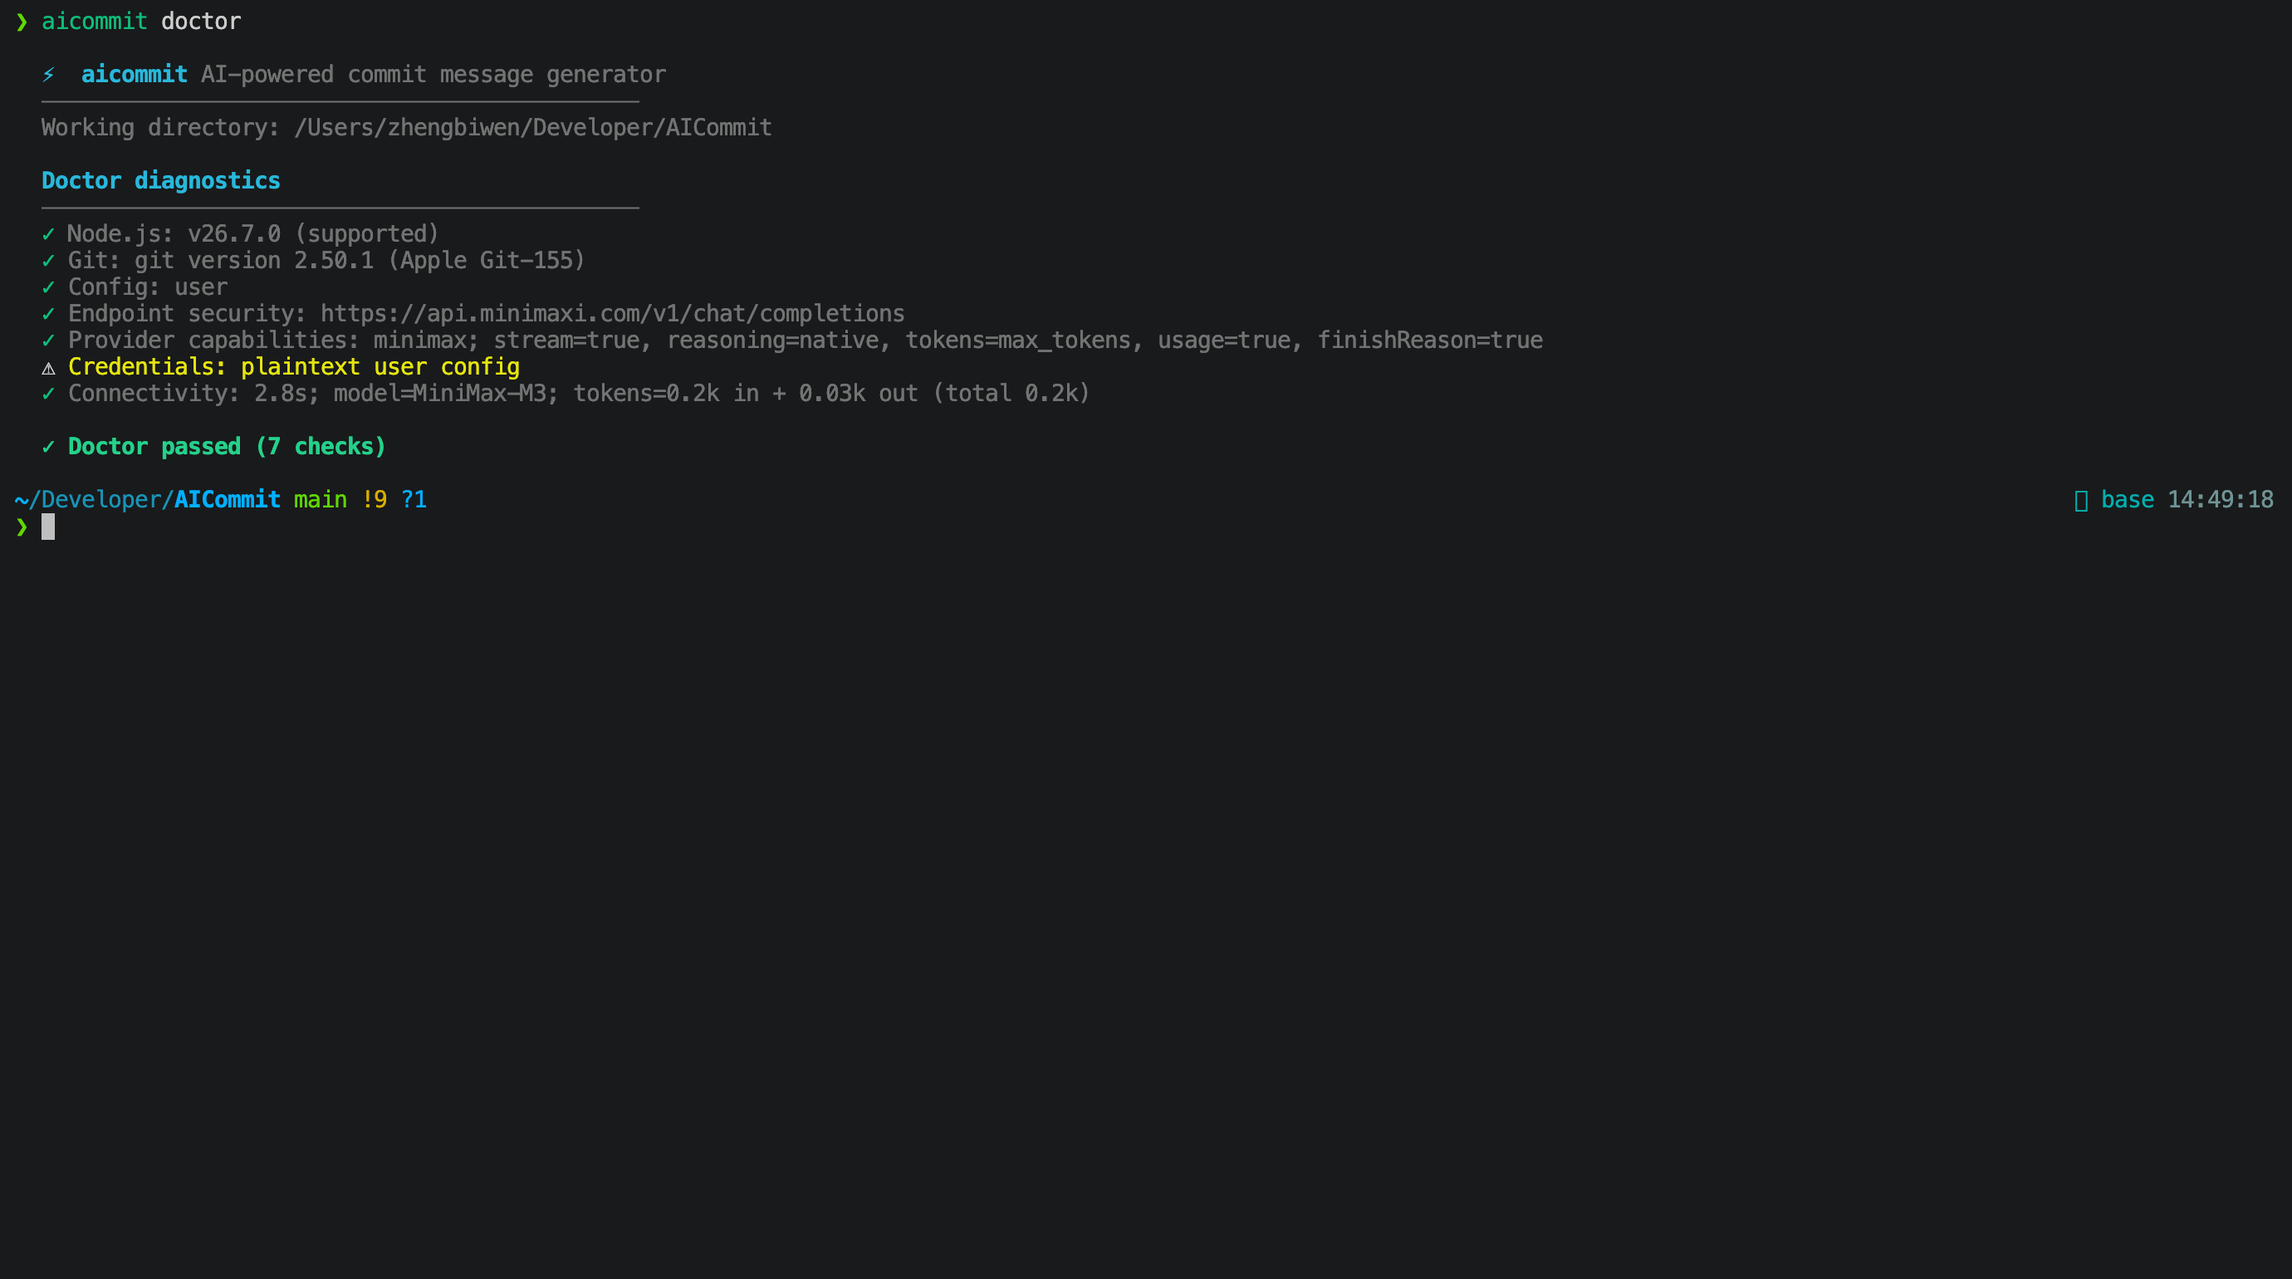
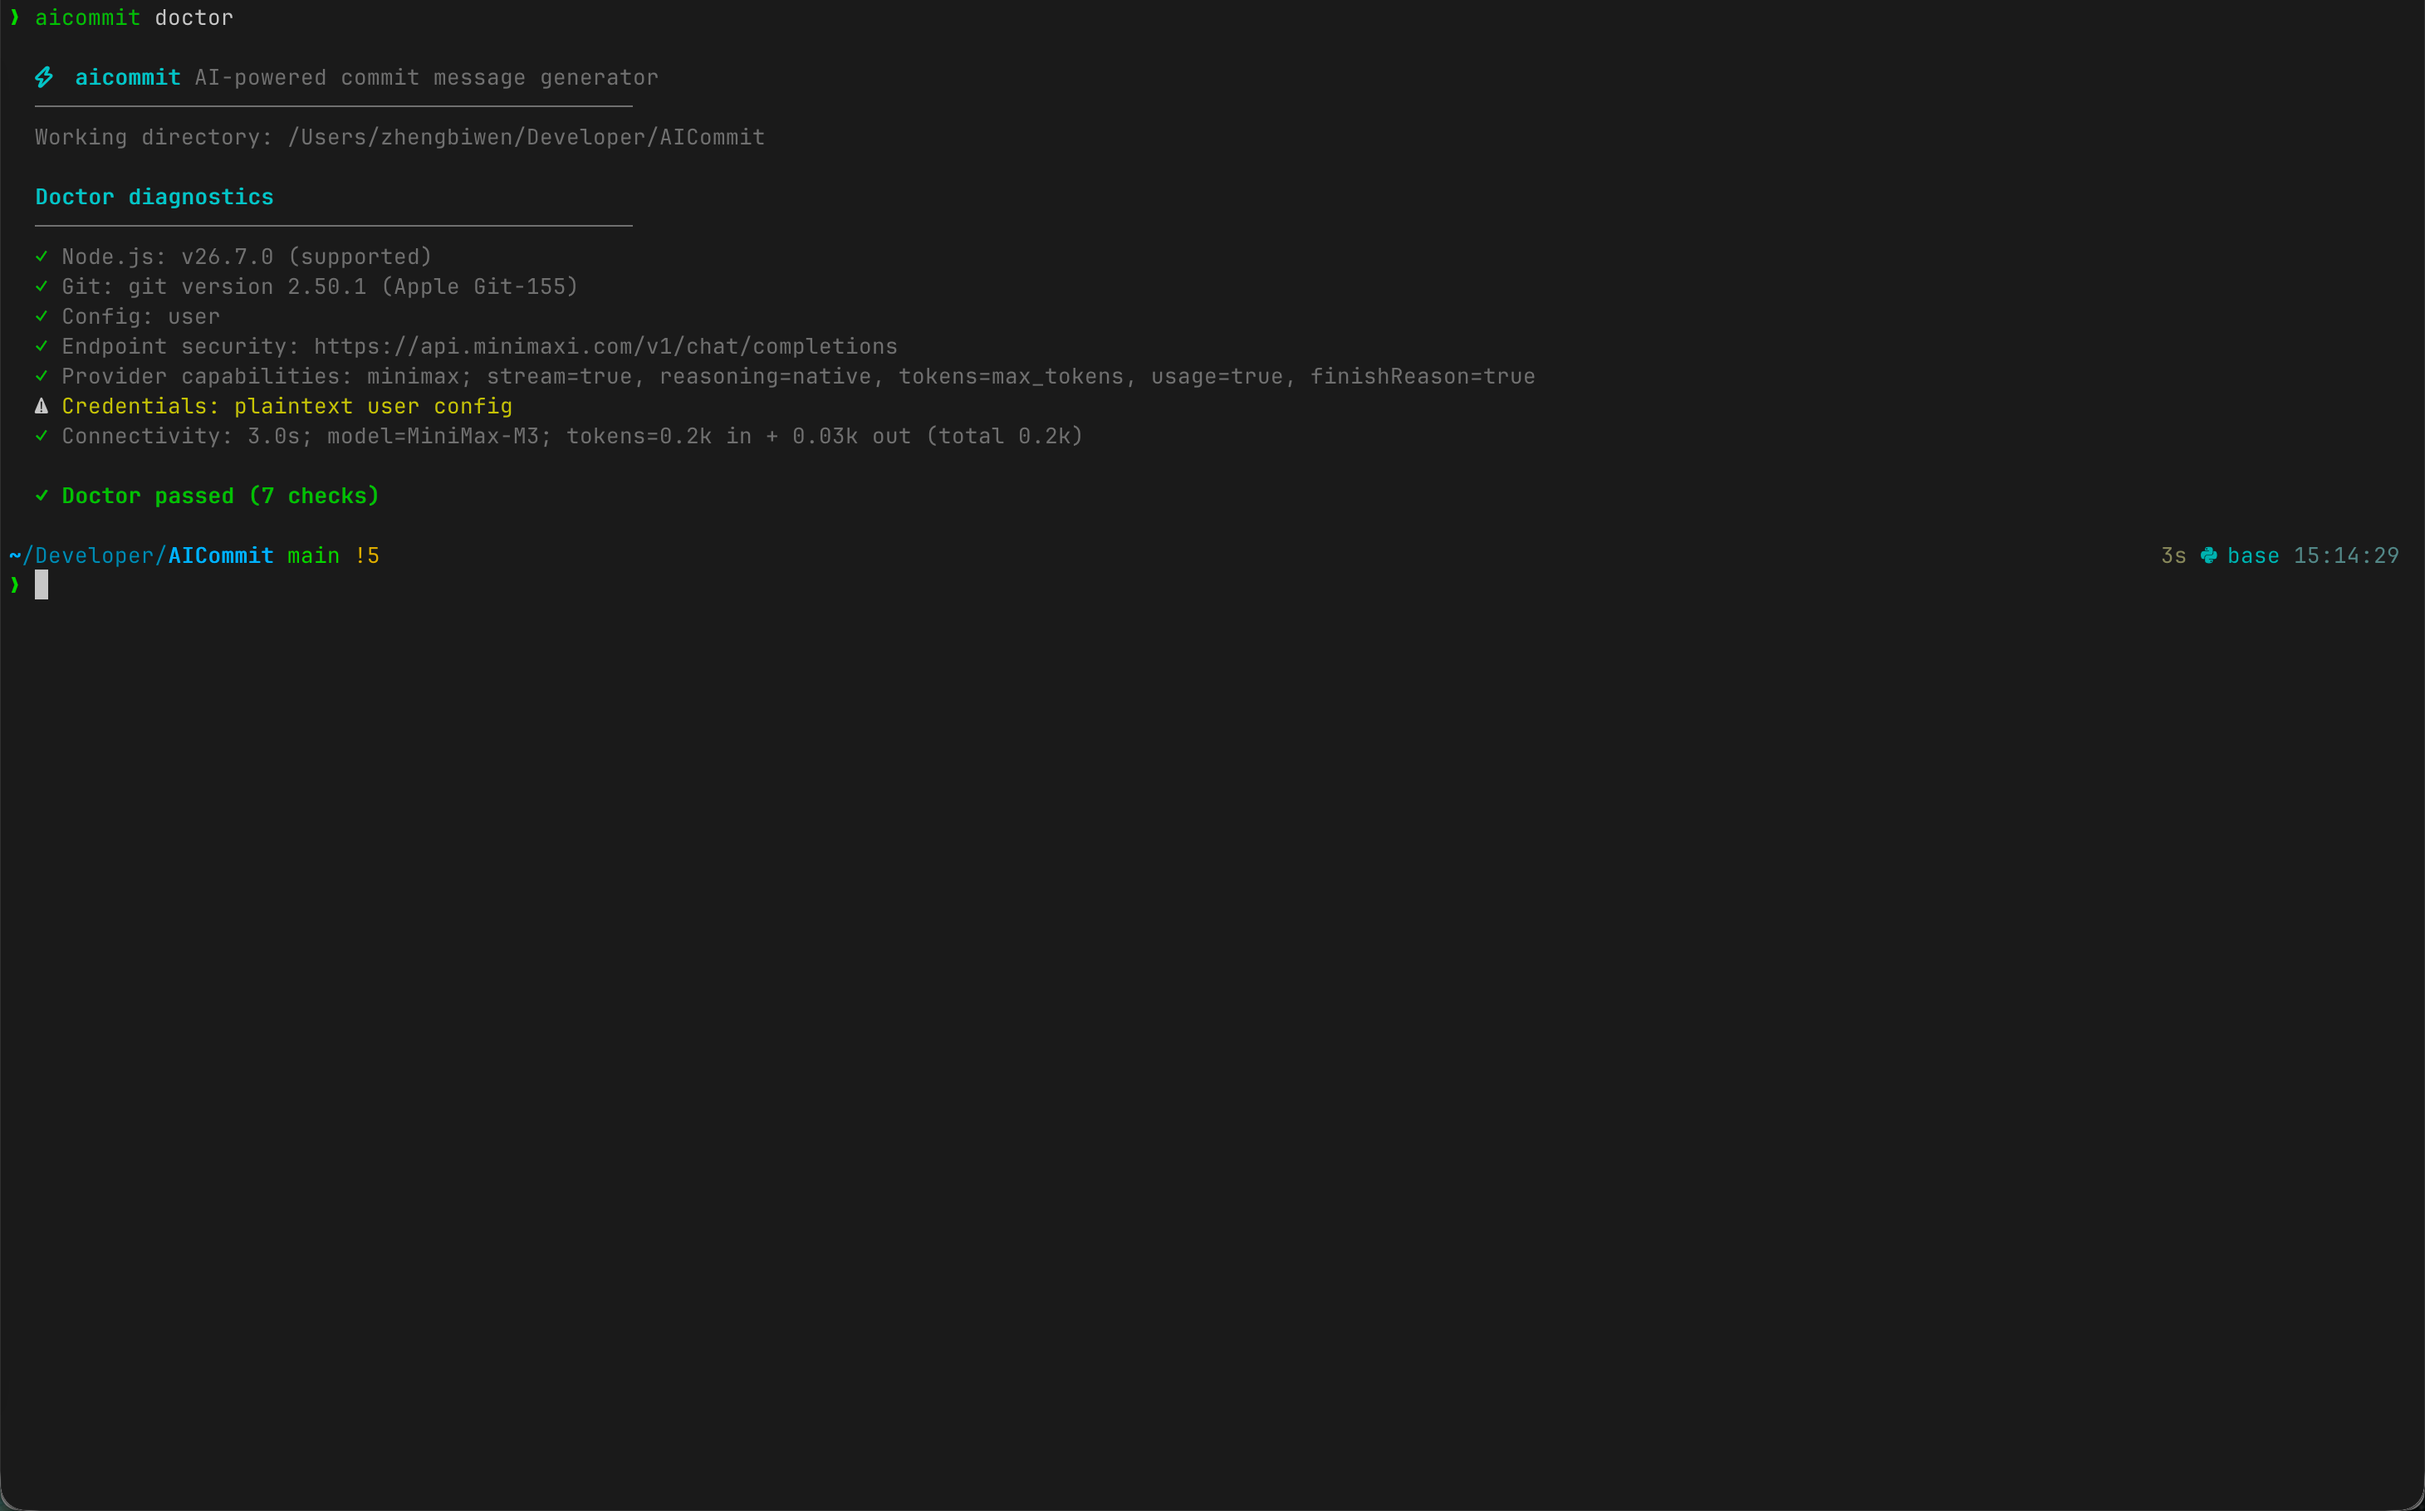
docs: 更新 README 截图与文案以反映实际 CLI 流程
- 将「交互式暂存工作区变更」「规划逻辑提交」章节替换为「交互式配置 Provider」「生成提交信息」
- 替换对应截图资源，新增 setup-provider.png 与 generating-commit.png
- 移除已不再使用的 stage-changes.png 与 split-workflow.png
- 同步刷新 README.zh-CN.md 双语文案与图片引用

diff --git a/README.md b/README.md
@@ -8,19 +8,19 @@ AI-powered git commit message generator: reads your diff, asks an AI model for a
 
 These screenshots were captured from real interactive terminal sessions in this repository. Provider, model, paths, and timings reflect the environment at capture time.
 
-### Stage working-tree changes interactively
+### Configure a provider interactively
 
-![AICommit offering to stage all changes or selected files](docs/assets/readme/stage-changes.png)
+![AICommit setup prompting for an AI provider](docs/assets/readme/setup-provider.png)
 
 ### Diagnose configuration and connectivity
 
 ![AICommit doctor checking runtime, configuration, credentials, and provider connectivity](docs/assets/readme/doctor-diagnostics.png)
 
-### Plan logical commits
+### Generate a commit message
 
-![AICommit planning two logical commits from the working-tree changes](docs/assets/readme/split-workflow.png)
+![AICommit generating a commit message from staged changes](docs/assets/readme/generating-commit.png)
 
-### Review a generated commit message
+### Review the generated commit message
 
 ![AICommit presenting a generated conventional commit message for confirmation](docs/assets/readme/generate-commit.png)
 

diff --git a/README.zh-CN.md b/README.zh-CN.md
@@ -8,17 +8,17 @@ AI 驱动的 Git 提交信息生成器：读取 diff，请 AI 模型生成符合
 
 以下截图来自本仓库中的真实交互式终端会话。Provider、模型、路径和耗时均为截图时的实际环境。
 
-### 交互式暂存工作区变更
+### 交互式配置 Provider
 
-![AICommit 提示暂存全部变更或选择文件](docs/assets/readme/stage-changes.png)
+![AICommit setup 提示选择 AI Provider](docs/assets/readme/setup-provider.png)
 
 ### 检查配置与连接
 
 ![AICommit doctor 检查运行环境、配置、凭据和 Provider 连接](docs/assets/readme/doctor-diagnostics.png)
 
-### 规划逻辑提交
+### 生成提交信息
 
-![AICommit 根据工作区变更规划两个逻辑提交](docs/assets/readme/split-workflow.png)
+![AICommit 根据已暂存的变更生成提交信息](docs/assets/readme/generating-commit.png)
 
 ### 检查生成的提交信息
 
